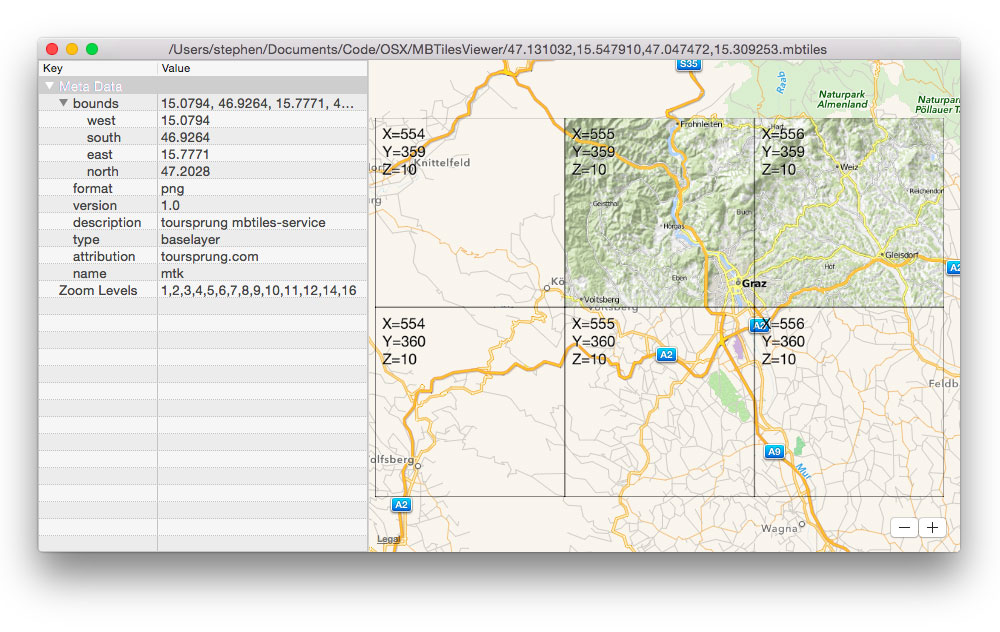
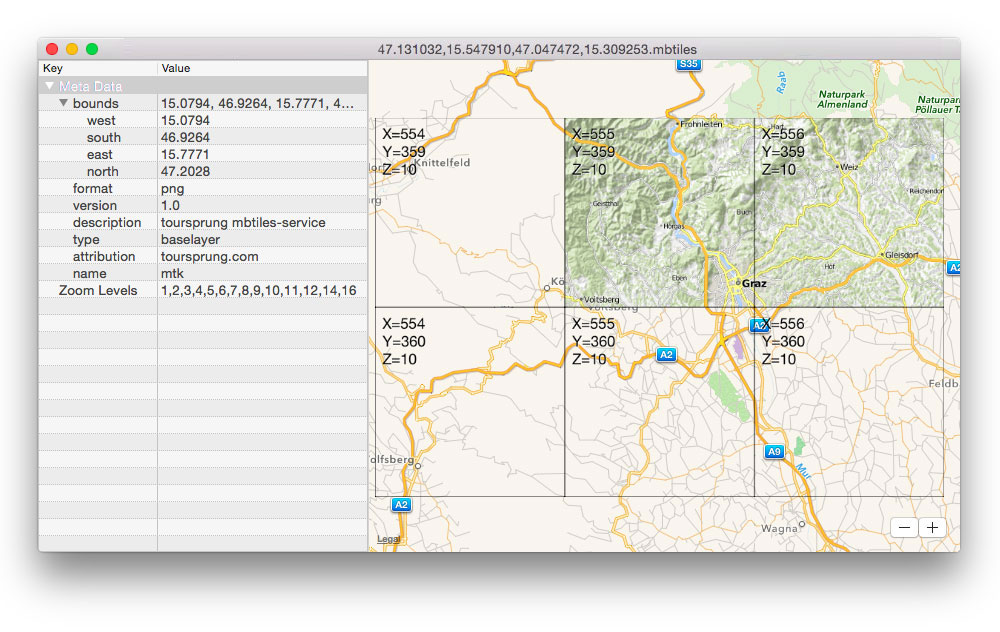
Add structured data for products. Add streets video. Remove themetrust links.

Changed region(s): [[0.155, 0.0601, 0.837, 0.0902]]

diff --git a/_includes/header.html b/_includes/header.html
@@ -6,10 +6,10 @@
   <meta name="viewport" content="width=device-width, initial-scale = 1.0, maximum-scale=1.0, user-scalable=no" />
   <link rel='stylesheet' id='slideshow-css'  href='/css/onato.css' type='text/css' media='all' />
   <!--[if IE 7]>
-  <link rel="stylesheet" href="http://themetrust.com/demos/hardy/wp-content/themes/hardy/css/ie7.css" type="text/css" media="screen" />
+  <link rel="stylesheet" href="/css/ie7.css" type="text/css" media="screen" />
   <![endif]-->
   <!--[if IE 8]>
-  <link rel="stylesheet" href="http://themetrust.com/demos/hardy/wp-content/themes/hardy/css/ie8.css" type="text/css" media="screen" />
+  <link rel="stylesheet" href="/css/ie8.css" type="text/css" media="screen" />
   <![endif]-->
 </head>
 

diff --git a/_layouts/project.html b/_layouts/project.html
@@ -14,8 +14,8 @@
 <div class="main clearfix">
   <div id="content" class="clearfix full" style="background-color:#FFFFFF;">
     <div class="project center">
-    <div class="inside clearfix" style="padding-top:50px;">
-      <h2>{{ post.title }}</h2>
+    <div class="inside clearfix" style="padding-top:50px;" itemscope itemtype="http://data-vocabulary.org/Product">
+      <h2 itemprop="name">{{ post.title }}</h2>
       {{ content }}
       {% if post.video.vimeoID %}
         <div class="videoContainer">

diff --git a/_posts/projects/2015-01-12-MBTilesViewer.md b/_posts/projects/2015-01-12-MBTilesViewer.md
@@ -9,7 +9,9 @@ backgroundDark: no
 categories: projects
 ---
 
-MBTilesView is a viewer that helps you examine the contents of your MBTiles files. It shows you the files included metadata and which tiles are included at each zoom level.
+<span itemprop="description">MBTilesView is a viewer that helps you examine the contents of your MBTiles files. It shows you the files included metadata and which tiles are included at each zoom level. 
+
+For a couple of buck you can see all the info you need at the click of a button. Stop reading your mbtiles files like an SQLite file and see what the file really represents.</span>
 
 [![Alt text](/images/icons/download-on-the-mac-app-store.png "Download MBTilesViewer on the Mac App Store")](https://itunes.apple.com/us/app/mbtilesviewer/id954809013?mt=12)
 

diff --git a/_posts/projects/2010-01-27-streets.md b/_posts/projects/2010-01-27-streets.md
@@ -1,6 +1,7 @@
 ---
 layout: project
 title:  Streets
+video: {vimeoID: 67002418, width: 1000, height: 480, padding-bottom: "48%"}
 image: {src: images/projects/streets/Onato-Streets-Orange-1000.jpg, width: 1000, height: 1000}
 categories: projects
 backgroundColor: "#333333"
